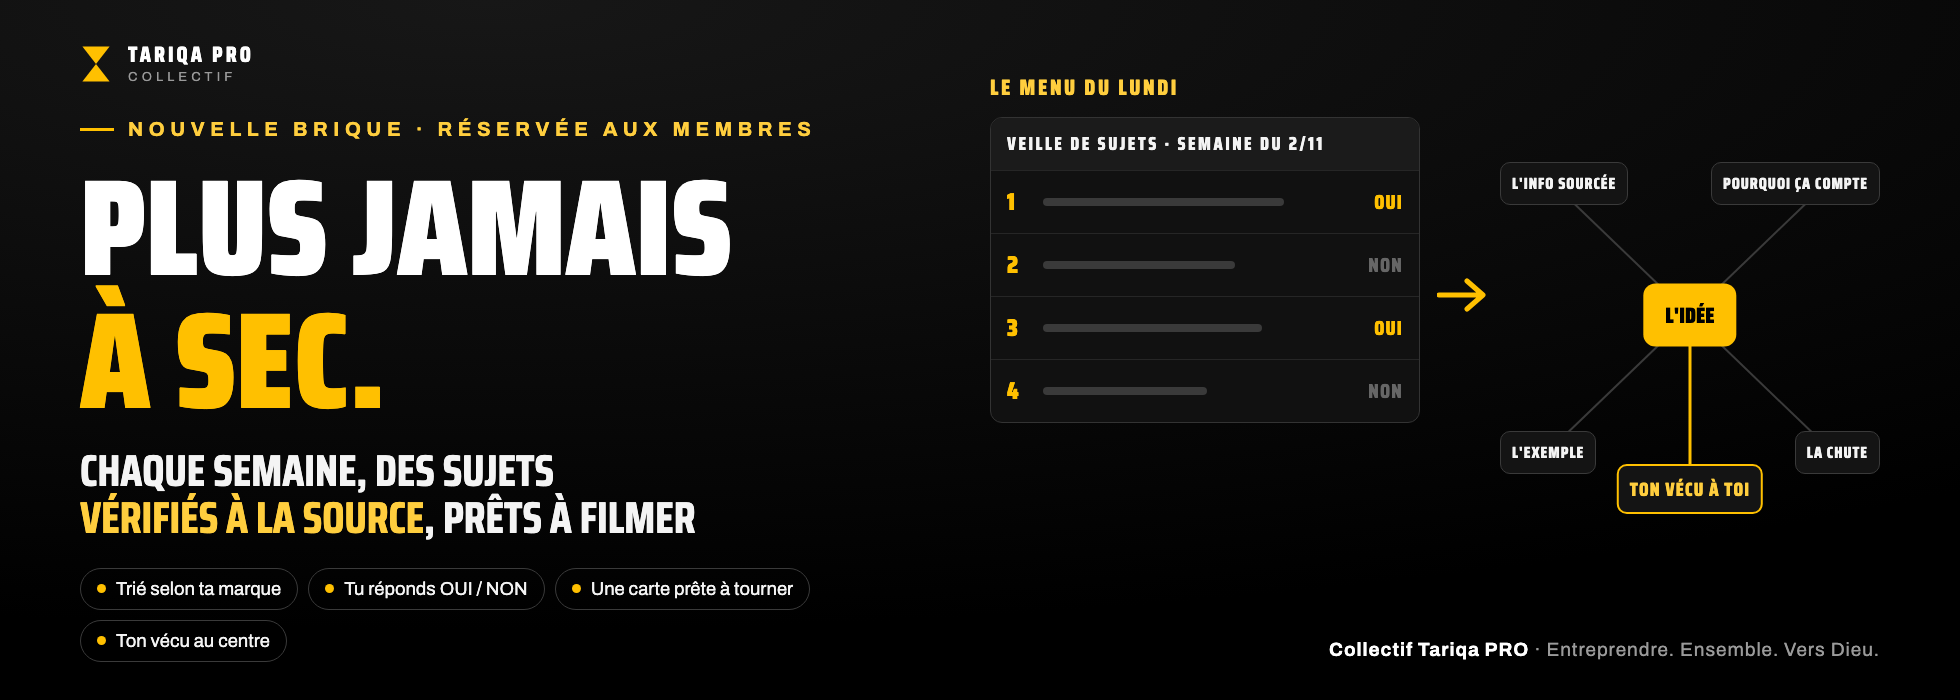
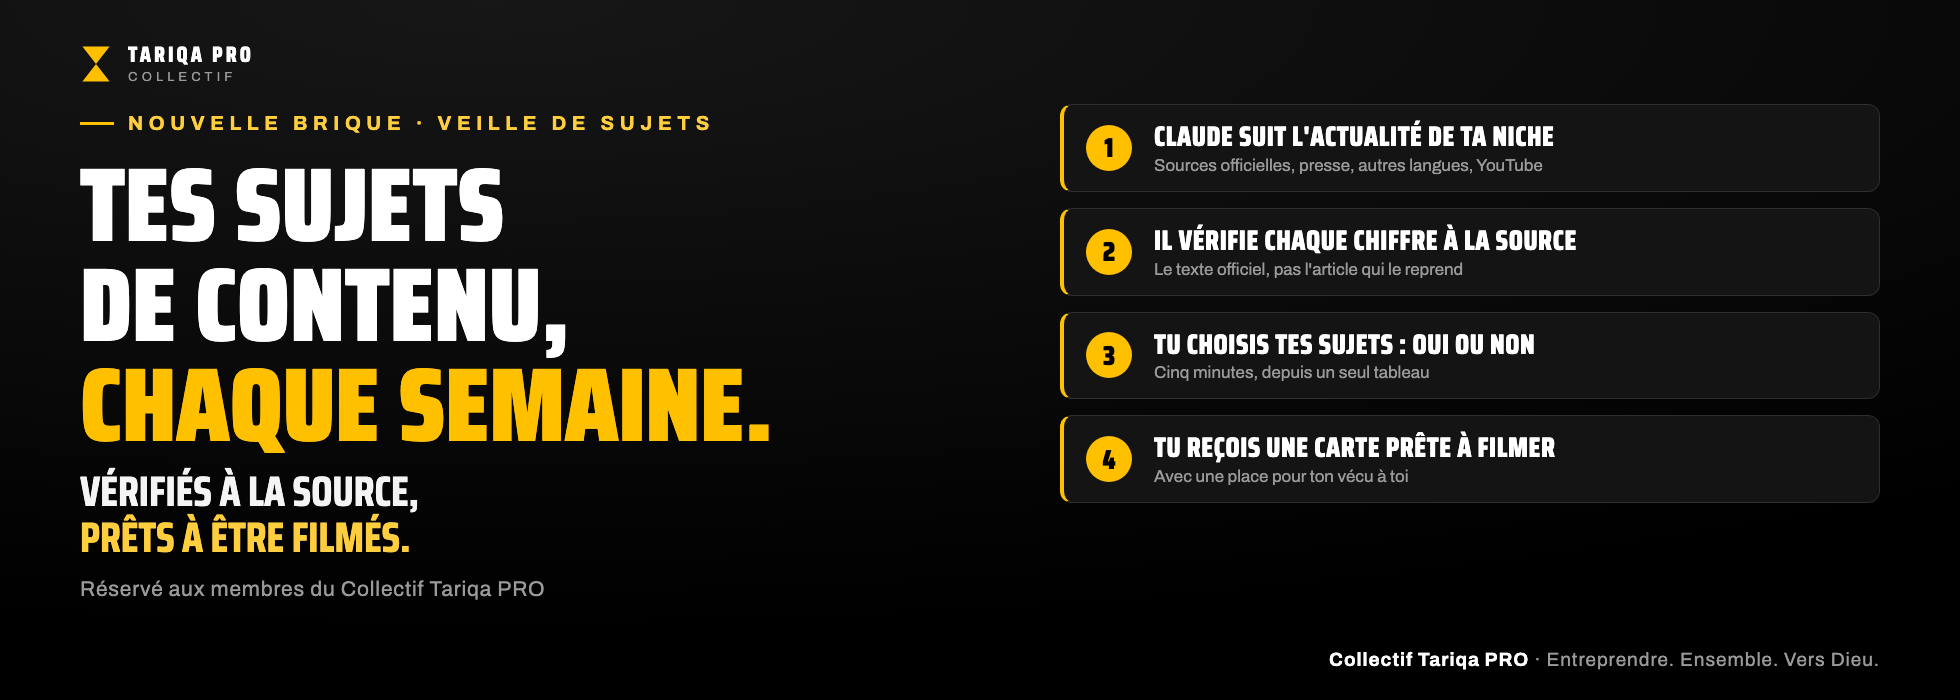
Visuels et titre explicites : tes sujets de contenu, chaque semaine, vérifiés à la source, prêts à être filmés

diff --git a/annonce/couverture.html b/annonce/couverture.html
@@ -20,68 +20,37 @@ h1 .g{color:var(--gold)}
 .chip::before{content:"";width:9px;height:9px;border-radius:50%;background:var(--gold)}
 .foot{position:absolute;left:72px;bottom:46px;font-size:19px;color:var(--ash);letter-spacing:.05em}
 .foot b{color:#fff}
-h1{font-size:150px}
-.vis{position:absolute;right:64px;top:132px;width:620px;height:660px}
-.lab{font-family:"Saira Condensed";font-weight:800;text-transform:uppercase;letter-spacing:.12em;font-size:22px;color:var(--gold-text)}
-.menu{background:#111;border:1.5px solid #333;border-radius:12px;overflow:hidden;margin-top:12px}
-.mh{background:#1b1b1b;padding:12px 16px;font-family:"Saira Condensed";font-weight:800;letter-spacing:.14em;text-transform:uppercase;font-size:18px;color:var(--smoke)}
-.r{display:grid;grid-template-columns:36px 1fr 86px;align-items:center;padding:12px 16px;border-top:1px solid #262626;font-size:18px;color:var(--smoke)}
-.r .n{font-family:"Saira Condensed";font-weight:900;color:var(--gold);font-size:24px}
-.r .l{height:8px;border-radius:4px;background:#3a3a3a}
-.yes,.no{font-family:"Saira Condensed";font-weight:800;font-size:20px;text-align:right;letter-spacing:.06em}
-.yes{color:var(--gold)} .no{color:#666}
-.arrow{display:block;margin:14px auto 6px;width:40px}
-.mind{position:relative;height:250px}
-.core{position:absolute;left:50%;top:50%;transform:translate(-50%,-50%);background:var(--gold);color:#000;font-family:"Saira Condensed";font-weight:900;text-transform:uppercase;font-size:24px;padding:14px 22px;border-radius:12px;white-space:nowrap}
-.br{position:absolute;background:#141414;border:1.5px solid #3a3a3a;border-radius:10px;padding:9px 14px;font-family:"Saira Condensed";font-weight:800;text-transform:uppercase;letter-spacing:.06em;font-size:18px;color:var(--smoke)}
-.br.vecu{border:2.5px solid var(--gold);color:var(--gold-text);font-size:21px}
-svg.lines{position:absolute;inset:0}
+.who{margin-top:26px;font-size:21px;color:var(--ash);letter-spacing:.04em}
+.steps{position:absolute;display:flex;flex-direction:column}
+.st{display:flex;align-items:center;gap:22px;background:#141414;border:1.5px solid #2e2e2e;border-left:4px solid var(--gold);border-radius:12px}
+.st .n{flex:0 0 auto;border-radius:50%;background:var(--gold);color:#000;font-family:"Saira Condensed";font-weight:900;display:grid;place-items:center}
+.st b{display:block;font-family:"Saira Condensed";font-weight:800;text-transform:uppercase;color:#fff;letter-spacing:.02em;line-height:1.1}
+.st div span{display:block;color:var(--ash);margin-top:4px}
 body{width:1960px;height:700px}
 .brand{top:44px;left:80px}
-.left{left:80px;top:118px;width:900px}
-h1{font-size:136px}
-.sub{font-size:44px}
-.chips{margin-top:26px}
-.foot{left:auto;right:80px;bottom:40px}
-.vis{right:70px;top:70px;width:900px;height:580px}
-.menu{width:430px}
-.arrow{position:absolute;left:452px;top:200px;margin:0;transform:rotate(-90deg)}
-.mind{position:absolute;left:500px;top:80px;width:400px;height:330px}
-.mind .br{font-size:16px;padding:8px 11px}
-.mind .br.vecu{font-size:19px}
-.core{font-size:22px}
+.left{left:80px;top:112px;width:900px}
+h1{font-size:104px;line-height:.96}
+.sub{font-size:42px;margin-top:14px}
+.who{margin-top:18px}
+.foot{left:auto;right:80px;bottom:30px}
+.steps{right:80px;top:104px;width:820px;gap:16px}
+.st{padding:16px 22px}
+.st .n{width:46px;height:46px;font-size:27px}
+.st b{font-size:28px}
+.st div span{font-size:17px}
 </style></head><body>
 <div class="brand"><svg viewBox="0 0 80 100"><path d="M6 6 L74 6 L40 50 Z" fill="#FFC000"/><path d="M40 50 L6 94 L74 94 Z" fill="#FFC000"/></svg><div><div class="n">Tariqa Pro</div><div class="c">Collectif</div></div></div>
 <div class="left">
-  <div class="kicker">Nouvelle brique · réservée aux membres</div>
-  <h1>Plus jamais<br><span class="g">à sec.</span></h1>
-  <p class="sub">Chaque semaine, des sujets<br><span class="g">vérifiés à la source</span>, prêts à filmer</p>
-  <div class="chips">
-    <div class="chip">Trié selon ta marque</div>
-    <div class="chip">Tu réponds OUI / NON</div>
-    <div class="chip">Une carte prête à tourner</div>
-    <div class="chip">Ton vécu au centre</div>
-  </div>
+  <div class="kicker">Nouvelle brique · Veille de sujets</div>
+  <h1>Tes sujets<br>de contenu,<br><span class="g">chaque semaine.</span></h1>
+  <p class="sub">Vérifiés à la source,<br><span class="g">prêts à être filmés.</span></p>
+  <p class="who">Réservé aux membres du Collectif Tariqa PRO</p>
 </div>
-<div class="vis">
-  <div class="lab">Le menu du lundi</div>
-  <div class="menu">
-    <div class="mh">Veille de sujets · semaine du 2/11</div>
-    <div class="r"><span class="n">1</span><span class="l" style="width:88%"></span><span class="yes">OUI</span></div>
-    <div class="r"><span class="n">2</span><span class="l" style="width:70%"></span><span class="no">NON</span></div>
-    <div class="r"><span class="n">3</span><span class="l" style="width:80%"></span><span class="yes">OUI</span></div>
-    <div class="r"><span class="n">4</span><span class="l" style="width:60%"></span><span class="no">NON</span></div>
-  </div>
-  <svg class="arrow" viewBox="0 0 40 50"><path d="M20 2 V44 M6 30 L20 46 L34 30" fill="none" stroke="#FFC000" stroke-width="5" stroke-linecap="round" stroke-linejoin="round"/></svg>
-  <div class="mind">
-    <svg class="lines" viewBox="0 0 400 330" preserveAspectRatio="none"><g stroke="#3a3a3a" stroke-width="2"><line x1="200" y1="165" x2="70" y2="40"/><line x1="200" y1="165" x2="330" y2="40"/><line x1="200" y1="165" x2="70" y2="290"/><line x1="200" y1="165" x2="330" y2="290"/></g><line x1="200" y1="165" x2="200" y2="320" stroke="#FFC000" stroke-width="3"/></svg>
-    <div class="core">L'idée</div>
-    <div class="br" style="left:10px;top:12px">L'info sourcée</div>
-    <div class="br" style="right:10px;top:12px">Pourquoi ça compte</div>
-    <div class="br" style="left:10px;bottom:6px">L'exemple</div>
-    <div class="br" style="right:10px;bottom:6px">La chute</div>
-    <div class="br vecu" style="left:50%;transform:translateX(-50%);bottom:-34px">Ton vécu à toi</div>
-  </div>
+<div class="steps">
+  <div class="st"><span class="n">1</span><div><b>Claude suit l'actualité de ta niche</b><span>Sources officielles, presse, autres langues, YouTube</span></div></div>
+  <div class="st"><span class="n">2</span><div><b>Il vérifie chaque chiffre à la source</b><span>Le texte officiel, pas l'article qui le reprend</span></div></div>
+  <div class="st"><span class="n">3</span><div><b>Tu choisis tes sujets : OUI ou NON</b><span>Cinq minutes, depuis un seul tableau</span></div></div>
+  <div class="st"><span class="n">4</span><div><b>Tu reçois une carte prête à filmer</b><span>Avec une place pour ton vécu à toi</span></div></div>
 </div>
 <div class="foot"><b>Collectif Tariqa PRO</b> · Entreprendre. Ensemble. Vers Dieu.</div>
 </body></html>

diff --git a/annonce/image.html b/annonce/image.html
@@ -20,54 +20,33 @@ h1 .g{color:var(--gold)}
 .chip::before{content:"";width:9px;height:9px;border-radius:50%;background:var(--gold)}
 .foot{position:absolute;left:72px;bottom:46px;font-size:19px;color:var(--ash);letter-spacing:.05em}
 .foot b{color:#fff}
-h1{font-size:150px}
-.vis{position:absolute;right:64px;top:132px;width:620px;height:660px}
-.lab{font-family:"Saira Condensed";font-weight:800;text-transform:uppercase;letter-spacing:.12em;font-size:22px;color:var(--gold-text)}
-.menu{background:#111;border:1.5px solid #333;border-radius:12px;overflow:hidden;margin-top:12px}
-.mh{background:#1b1b1b;padding:12px 16px;font-family:"Saira Condensed";font-weight:800;letter-spacing:.14em;text-transform:uppercase;font-size:18px;color:var(--smoke)}
-.r{display:grid;grid-template-columns:36px 1fr 86px;align-items:center;padding:12px 16px;border-top:1px solid #262626;font-size:18px;color:var(--smoke)}
-.r .n{font-family:"Saira Condensed";font-weight:900;color:var(--gold);font-size:24px}
-.r .l{height:8px;border-radius:4px;background:#3a3a3a}
-.yes,.no{font-family:"Saira Condensed";font-weight:800;font-size:20px;text-align:right;letter-spacing:.06em}
-.yes{color:var(--gold)} .no{color:#666}
-.arrow{display:block;margin:14px auto 6px;width:40px}
-.mind{position:relative;height:250px}
-.core{position:absolute;left:50%;top:50%;transform:translate(-50%,-50%);background:var(--gold);color:#000;font-family:"Saira Condensed";font-weight:900;text-transform:uppercase;font-size:24px;padding:14px 22px;border-radius:12px;white-space:nowrap}
-.br{position:absolute;background:#141414;border:1.5px solid #3a3a3a;border-radius:10px;padding:9px 14px;font-family:"Saira Condensed";font-weight:800;text-transform:uppercase;letter-spacing:.06em;font-size:18px;color:var(--smoke)}
-.br.vecu{border:2.5px solid var(--gold);color:var(--gold-text);font-size:21px}
-svg.lines{position:absolute;inset:0}
+.who{margin-top:26px;font-size:21px;color:var(--ash);letter-spacing:.04em}
+.steps{position:absolute;display:flex;flex-direction:column}
+.st{display:flex;align-items:center;gap:22px;background:#141414;border:1.5px solid #2e2e2e;border-left:4px solid var(--gold);border-radius:12px}
+.st .n{flex:0 0 auto;border-radius:50%;background:var(--gold);color:#000;font-family:"Saira Condensed";font-weight:900;display:grid;place-items:center}
+.st b{display:block;font-family:"Saira Condensed";font-weight:800;text-transform:uppercase;color:#fff;letter-spacing:.02em;line-height:1.1}
+.st div span{display:block;color:var(--ash);margin-top:4px}
+h1{font-size:108px;line-height:.96}
+.sub{font-size:46px}
+.left{top:140px;width:780px}
+.steps{right:64px;top:168px;width:690px;gap:26px}
+.st{padding:24px 26px}
+.st .n{width:52px;height:52px;font-size:30px}
+.st b{font-size:31px}
+.st div span{font-size:19px}
 </style></head><body>
 <div class="brand"><svg viewBox="0 0 80 100"><path d="M6 6 L74 6 L40 50 Z" fill="#FFC000"/><path d="M40 50 L6 94 L74 94 Z" fill="#FFC000"/></svg><div><div class="n">Tariqa Pro</div><div class="c">Collectif</div></div></div>
 <div class="left">
-  <div class="kicker">Nouvelle brique · réservée aux membres</div>
-  <h1>Plus jamais<br><span class="g">à sec.</span></h1>
-  <p class="sub">Chaque semaine, des sujets<br><span class="g">vérifiés à la source</span>, prêts à filmer</p>
-  <div class="chips">
-    <div class="chip">Trié selon ta marque</div>
-    <div class="chip">Tu réponds OUI / NON</div>
-    <div class="chip">Une carte prête à tourner</div>
-    <div class="chip">Ton vécu au centre</div>
-  </div>
+  <div class="kicker">Nouvelle brique · Veille de sujets</div>
+  <h1>Tes sujets<br>de contenu,<br><span class="g">chaque semaine.</span></h1>
+  <p class="sub">Vérifiés à la source,<br><span class="g">prêts à être filmés.</span></p>
+  <p class="who">Réservé aux membres du Collectif Tariqa PRO</p>
 </div>
-<div class="vis">
-  <div class="lab">Le menu du lundi</div>
-  <div class="menu">
-    <div class="mh">Veille de sujets · semaine du 2/11</div>
-    <div class="r"><span class="n">1</span><span class="l" style="width:88%"></span><span class="yes">OUI</span></div>
-    <div class="r"><span class="n">2</span><span class="l" style="width:70%"></span><span class="no">NON</span></div>
-    <div class="r"><span class="n">3</span><span class="l" style="width:80%"></span><span class="yes">OUI</span></div>
-    <div class="r"><span class="n">4</span><span class="l" style="width:60%"></span><span class="no">NON</span></div>
-  </div>
-  <svg class="arrow" viewBox="0 0 40 50"><path d="M20 2 V44 M6 30 L20 46 L34 30" fill="none" stroke="#FFC000" stroke-width="5" stroke-linecap="round" stroke-linejoin="round"/></svg>
-  <div class="mind">
-    <svg class="lines" viewBox="0 0 620 250"><g stroke="#3a3a3a" stroke-width="2"><line x1="310" y1="125" x2="95" y2="35"/><line x1="310" y1="125" x2="525" y2="35"/><line x1="310" y1="125" x2="95" y2="215"/><line x1="310" y1="125" x2="525" y2="215"/></g><line x1="310" y1="125" x2="310" y2="240" stroke="#FFC000" stroke-width="3"/></svg>
-    <div class="core">L'idée</div>
-    <div class="br" style="left:10px;top:12px">L'info sourcée</div>
-    <div class="br" style="right:10px;top:12px">Pourquoi ça compte</div>
-    <div class="br" style="left:10px;bottom:6px">L'exemple</div>
-    <div class="br" style="right:10px;bottom:6px">La chute</div>
-    <div class="br vecu" style="left:50%;transform:translateX(-50%);bottom:-34px">Ton vécu à toi</div>
-  </div>
+<div class="steps">
+  <div class="st"><span class="n">1</span><div><b>Claude suit l'actualité de ta niche</b><span>Sources officielles, presse, autres langues, YouTube</span></div></div>
+  <div class="st"><span class="n">2</span><div><b>Il vérifie chaque chiffre à la source</b><span>Le texte officiel, pas l'article qui le reprend</span></div></div>
+  <div class="st"><span class="n">3</span><div><b>Tu choisis tes sujets : OUI ou NON</b><span>Cinq minutes, depuis un seul tableau</span></div></div>
+  <div class="st"><span class="n">4</span><div><b>Tu reçois une carte prête à filmer</b><span>Avec une place pour ton vécu à toi</span></div></div>
 </div>
 <div class="foot"><b>Collectif Tariqa PRO</b> · Entreprendre. Ensemble. Vers Dieu.</div>
 </body></html>

diff --git a/docs/index.html b/docs/index.html
@@ -88,9 +88,9 @@
 
   <header>
     <div class="kicker">Collectif Tariqa PRO · Veille de sujets</div>
-    <h1>Ne sois plus jamais<br><span class="or">à sec</span>.</h1>
+    <h1>Tes sujets de contenu,<br><span class="or">chaque semaine</span>.</h1>
     <p class="tagline">Entreprendre. Ensemble. Vers Dieu.</p>
-    <p class="sub">Chaque semaine, un menu de sujets précis, vérifiés à la source et triés selon ta marque. Tu réponds OUI ou NON. Chaque sujet retenu devient une carte prête à filmer. Toi, tu apportes ton vécu.</p>
+    <p class="sub">Vérifiés à la source, triés selon ta marque, prêts à être filmés. Claude te propose un menu de sujets pour ta niche. Tu réponds OUI ou NON. Chaque sujet retenu devient une carte prête à filmer. Toi, tu apportes ton vécu.</p>
     <div class="rule"></div>
   </header>
 

diff --git a/annonce/post-circle.md b/annonce/post-circle.md
@@ -2,14 +2,14 @@
 
 - Espace : SIRAT — LE FAMEUX PARCOURS CLAUDE AI (id 2695523)
 - Image de couverture : `annonce-veille-couverture.png` (1960 × 700) ; version 16:9 : `annonce-veille.png`
-- Titre : `Veille de sujets : ne sois plus jamais à sec pour publier`
+- Titre : `Veille de sujets : tes sujets de contenu chaque semaine, vérifiés à la source et prêts à être filmés`
 
 ```
 Assalamou alaykoum la famille 🤍
 
 Petit rappel pour ceux qui ont perdu le fil : dans Claude Code, tu as le parcours du Collectif Tariqa PRO, qui t'aide à exécuter toute la méthode, pour te rendre autonome. Tout le savoir et la vision du Collectif au bout du fil, et Coach Zaki qui te challenge à chaque étape.
 
-Aujourd'hui, une nouvelle brique s'ajoute : la VEILLE DE SUJETS. Pour ne plus jamais être à sec quand il faut publier.
+Aujourd'hui, une nouvelle brique s'ajoute : la VEILLE DE SUJETS. Chaque semaine, Claude te propose des sujets de contenu pour ta niche, vérifiés à la source et prêts à être filmés.
 
 👉 La page qui explique tout : https://collectif-tariqa-pro.github.io/ctp-veille/
 👉 Le plugin, réservé aux membres : https://github.com/Collectif-Tariqa-PRO/ctp-veille-plugin.git
